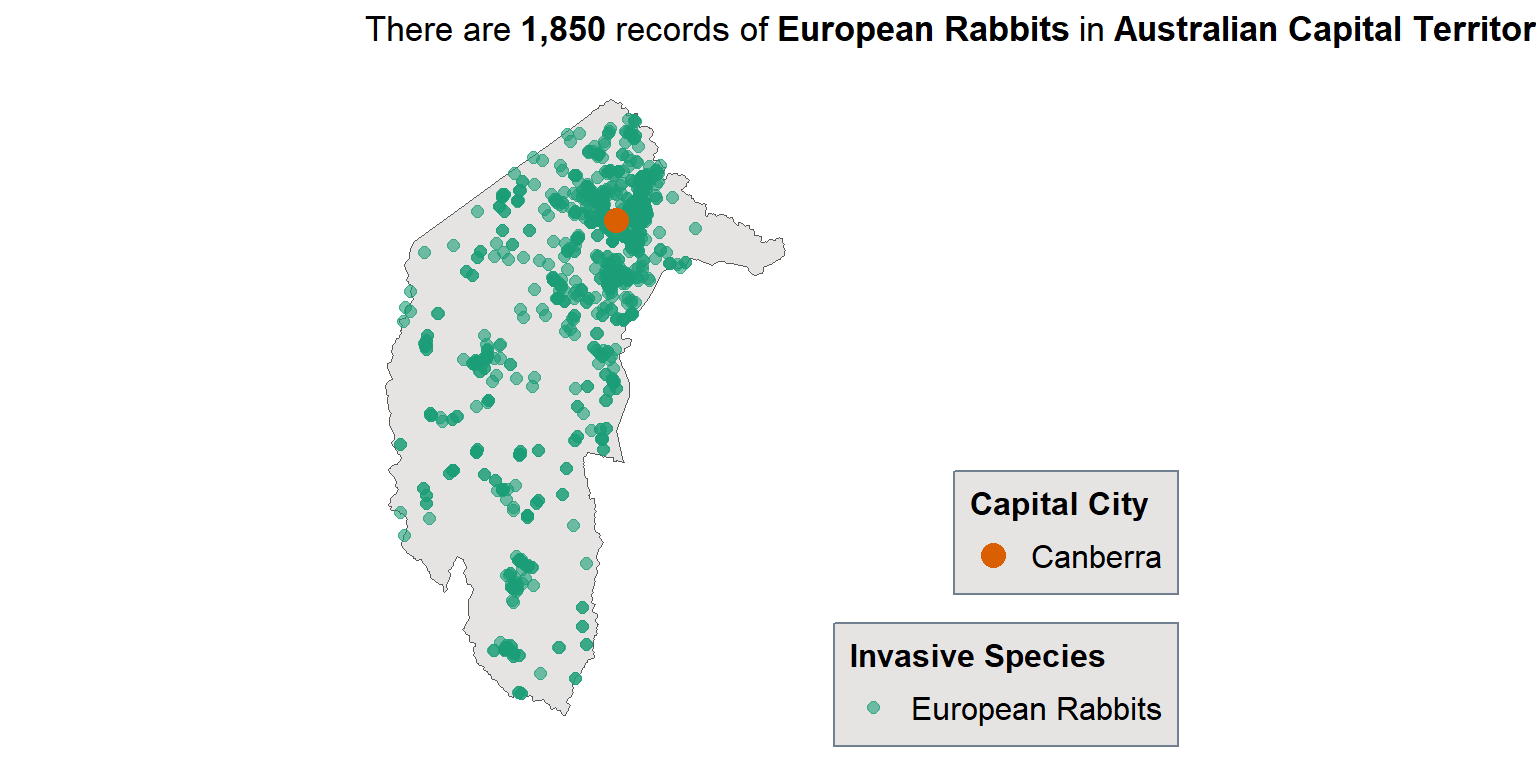
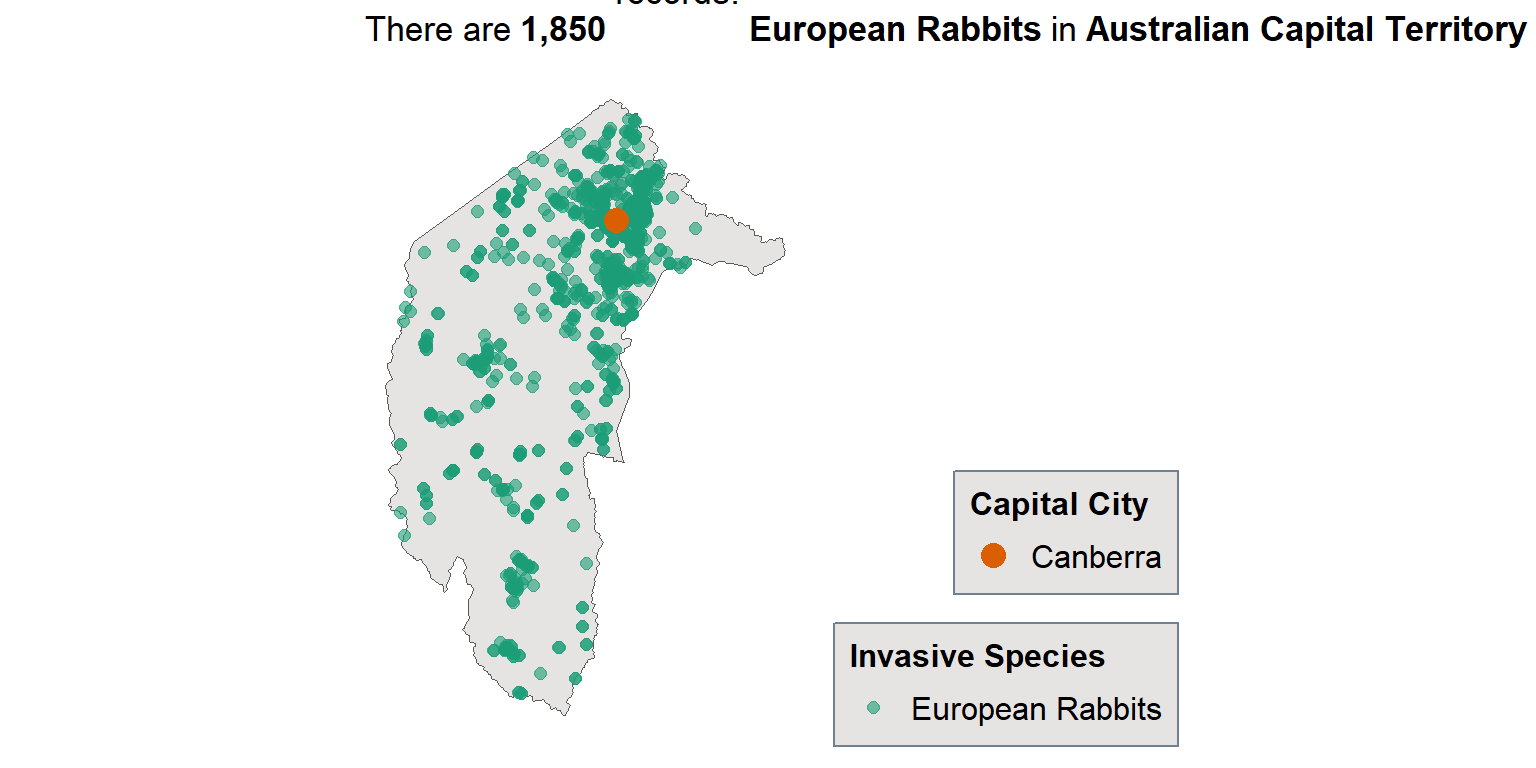
Still trying to fix this silly image

Changed region(s): [[0.4062, 0.0, 1.0, 0.0625]]

diff --git a/docs/blog/posts/invasive_species_dashboard_report/index.html b/docs/blog/posts/invasive_species_dashboard_report/index.html
@@ -561,10 +561,9 @@ pre > code.sourceCode > span > a:first-child::before { text-decoration: underlin
 <li><p><em>dashboard_data.csv:</em> is the cleaned occurrence data for the seven invasive species, including spatial and temporal variables.</p></li>
 <li><p><em>server.R</em> contains the back-end logic/code that takes the two inputs to dynamically create/adjust the visualisations/titles/downloads.</p></li>
 <li><p><em>ui.R</em> contains the front-end user-interface design and layout of the app.</p></li>
-</ul></section><section id="spatial-visualisation-european-rabbits-in-act" class="level3 page-columns page-full"><h3 class="anchored" data-anchor-id="spatial-visualisation-european-rabbits-in-act">Spatial Visualisation: European Rabbits in ACT</h3>
+</ul></section><section id="spatial-visualisation-european-rabbits-in-act" class="level3"><h3 class="anchored" data-anchor-id="spatial-visualisation-european-rabbits-in-act">Spatial Visualisation: European Rabbits in ACT</h3>
 <p>Let’s create the spatial visualisation using European Rabbits and ACT as the inputs.</p>
-<div class="page-columns page-full">
-<div class="cell page-columns page-full">
+<div class="cell">
 <div class="sourceCode" id="cb4"><pre class="downlit sourceCode r code-with-copy"><code class="sourceCode R"><span><span class="kw"><a href="https://rdrr.io/r/base/library.html">library</a></span><span class="op">(</span><span class="va"><a href="https://scales.r-lib.org">scales</a></span><span class="op">)</span></span>
 <span><span class="va">species_simple_name</span> <span class="op">&lt;-</span> <span class="st">"European Rabbits"</span></span>
 <span><span class="va">state_name</span> <span class="op">&lt;-</span> <span class="st">"Australian Capital Territory"</span></span>
@@ -630,7 +629,7 @@ pre > code.sourceCode > span > a:first-child::before { text-decoration: underlin
 <span>                    <span class="fu"><a href="https://rdrr.io/r/base/nrow.html">nrow</a></span><span class="op">(</span><span class="op">)</span> <span class="op"><a href="https://magrittr.tidyverse.org/reference/pipe.html">%&gt;%</a></span></span>
 <span>                    <span class="fu"><a href="https://scales.r-lib.org/reference/comma.html">comma</a></span><span class="op">(</span><span class="op">)</span></span>
 <span>            <span class="op">}</span><span class="op">)</span><span class="op">)</span> <span class="op">~</span></span>
-<span>            <span class="st">"records of"</span> <span class="op">~</span></span>
+<span>            <span class="st">"records:\n"</span> <span class="op">~</span></span>
 <span>            <span class="fu">bold</span><span class="op">(</span><span class="fu">.</span><span class="op">(</span><span class="va">species_simple_name</span><span class="op">)</span><span class="op">)</span> <span class="op">~</span></span>
 <span>            <span class="st">"in"</span> <span class="op">~</span></span>
 <span>            <span class="fu">bold</span><span class="op">(</span><span class="fu">.</span><span class="op">(</span><span class="va">state_name</span><span class="op">)</span><span class="op">)</span></span>
@@ -664,16 +663,15 @@ pre > code.sourceCode > span > a:first-child::before { text-decoration: underlin
 <span></span>
 <span>    panel.background <span class="op">=</span> <span class="fu"><a href="https://ggplot2.tidyverse.org/reference/element.html">element_rect</a></span><span class="op">(</span>fill <span class="op">=</span> <span class="st">"transparent"</span>, colour <span class="op">=</span> <span class="st">"transparent"</span><span class="op">)</span></span>
 <span>  <span class="op">)</span></span></code><button title="Copy to Clipboard" class="code-copy-button"><i class="bi"></i></button></pre></div>
-<div class="cell-output-display page-columns page-full">
-<div class="page-columns page-full">
-<figure class="figure page-columns page-full"><p class="page-columns page-full"><img src="index_files/figure-html/unnamed-chunk-5-1.png" class="img-fluid figure-img column-screen-inset" width="768"></p>
+<div class="cell-output-display">
+<div>
+<figure class="figure"><p><img src="index_files/figure-html/unnamed-chunk-5-1.png" class="img-fluid figure-img" width="768"></p>
 </figure>
 </div>
 </div>
 <div class="sourceCode" id="cb5"><pre class="downlit sourceCode r code-with-copy"><code class="sourceCode R"><span><span class="co"># References:</span></span>
 <span><span class="co"># 1: https://labs.ala.org.au/posts/2023-05-16_dingoes/post.html</span></span>
 <span><span class="co"># 2: https://r-graph-gallery.com/239-custom-layout-legend-ggplot2.html</span></span></code><button title="Copy to Clipboard" class="code-copy-button"><i class="bi"></i></button></pre></div>
-</div>
 </div>
 <p>Each green point represents one record. We can see that the majority of records are near Canberra with some patterns in Namadgi National Park, like Boboyan Road. Let’s visualise some more maps.</p>
 </section><section id="temporal-visualisation" class="level3 page-columns page-full"><h3 class="anchored" data-anchor-id="temporal-visualisation">Temporal Visualisation</h3>

diff --git a/docs/blog/index.html b/docs/blog/index.html
@@ -297,7 +297,7 @@ Johann Wagner
 </a>
 </div>
 </div>
-<div class="quarto-post image-right" data-index="1" data-categories="Data Projects,Exploratory Data Analysis,University Assignment" data-listing-date-sort="1697720400000" data-listing-file-modified-sort="1740487351189" data-listing-date-modified-sort="1740402000000" data-listing-reading-time-sort="13" data-listing-word-count-sort="2472">
+<div class="quarto-post image-right" data-index="1" data-categories="Data Projects,Exploratory Data Analysis,University Assignment" data-listing-date-sort="1697720400000" data-listing-file-modified-sort="1740487651935" data-listing-date-modified-sort="1740402000000" data-listing-reading-time-sort="13" data-listing-word-count-sort="2468">
 <div class="thumbnail">
 <p><a href="../blog/posts/invasive_species_dashboard_report/index.html" class="no-external"></a></p><a href="../blog/posts/invasive_species_dashboard_report/index.html" class="no-external">
 <p class="card-img-top"><img src="posts\invasive_species_dashboard_report\index_files\figure-html\unnamed-chunk-5-1.png"  class="thumbnail-image card-img"/></p>
